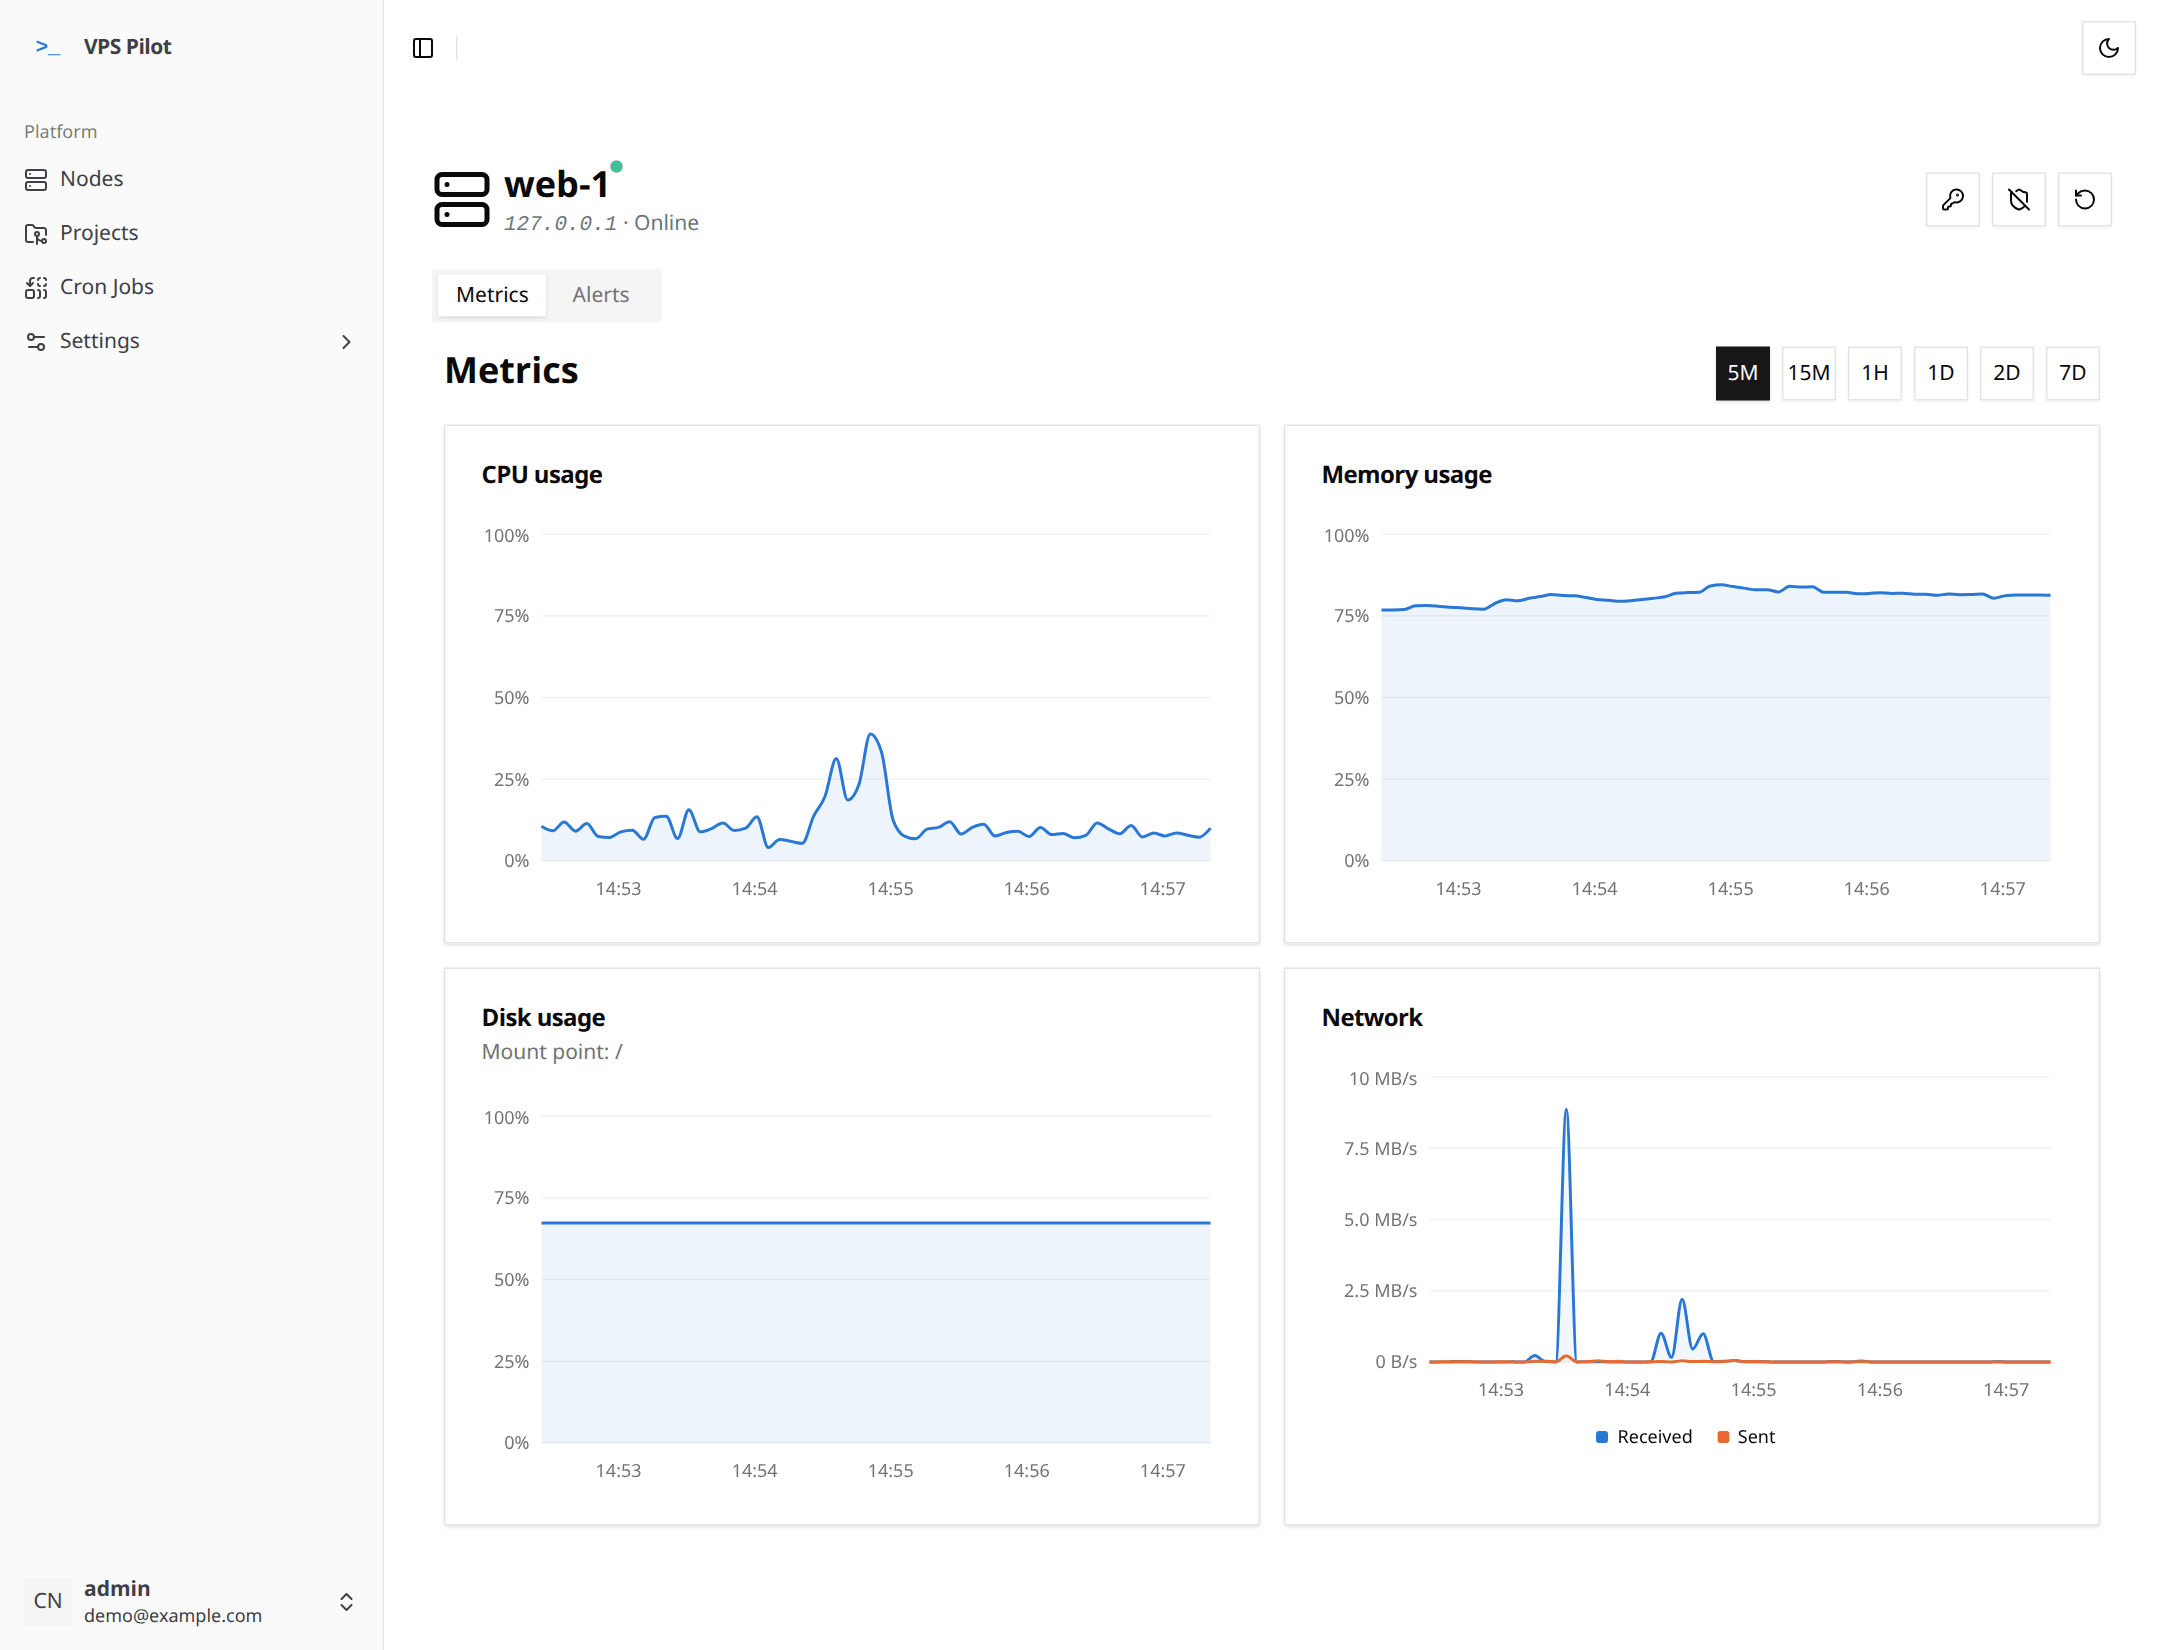
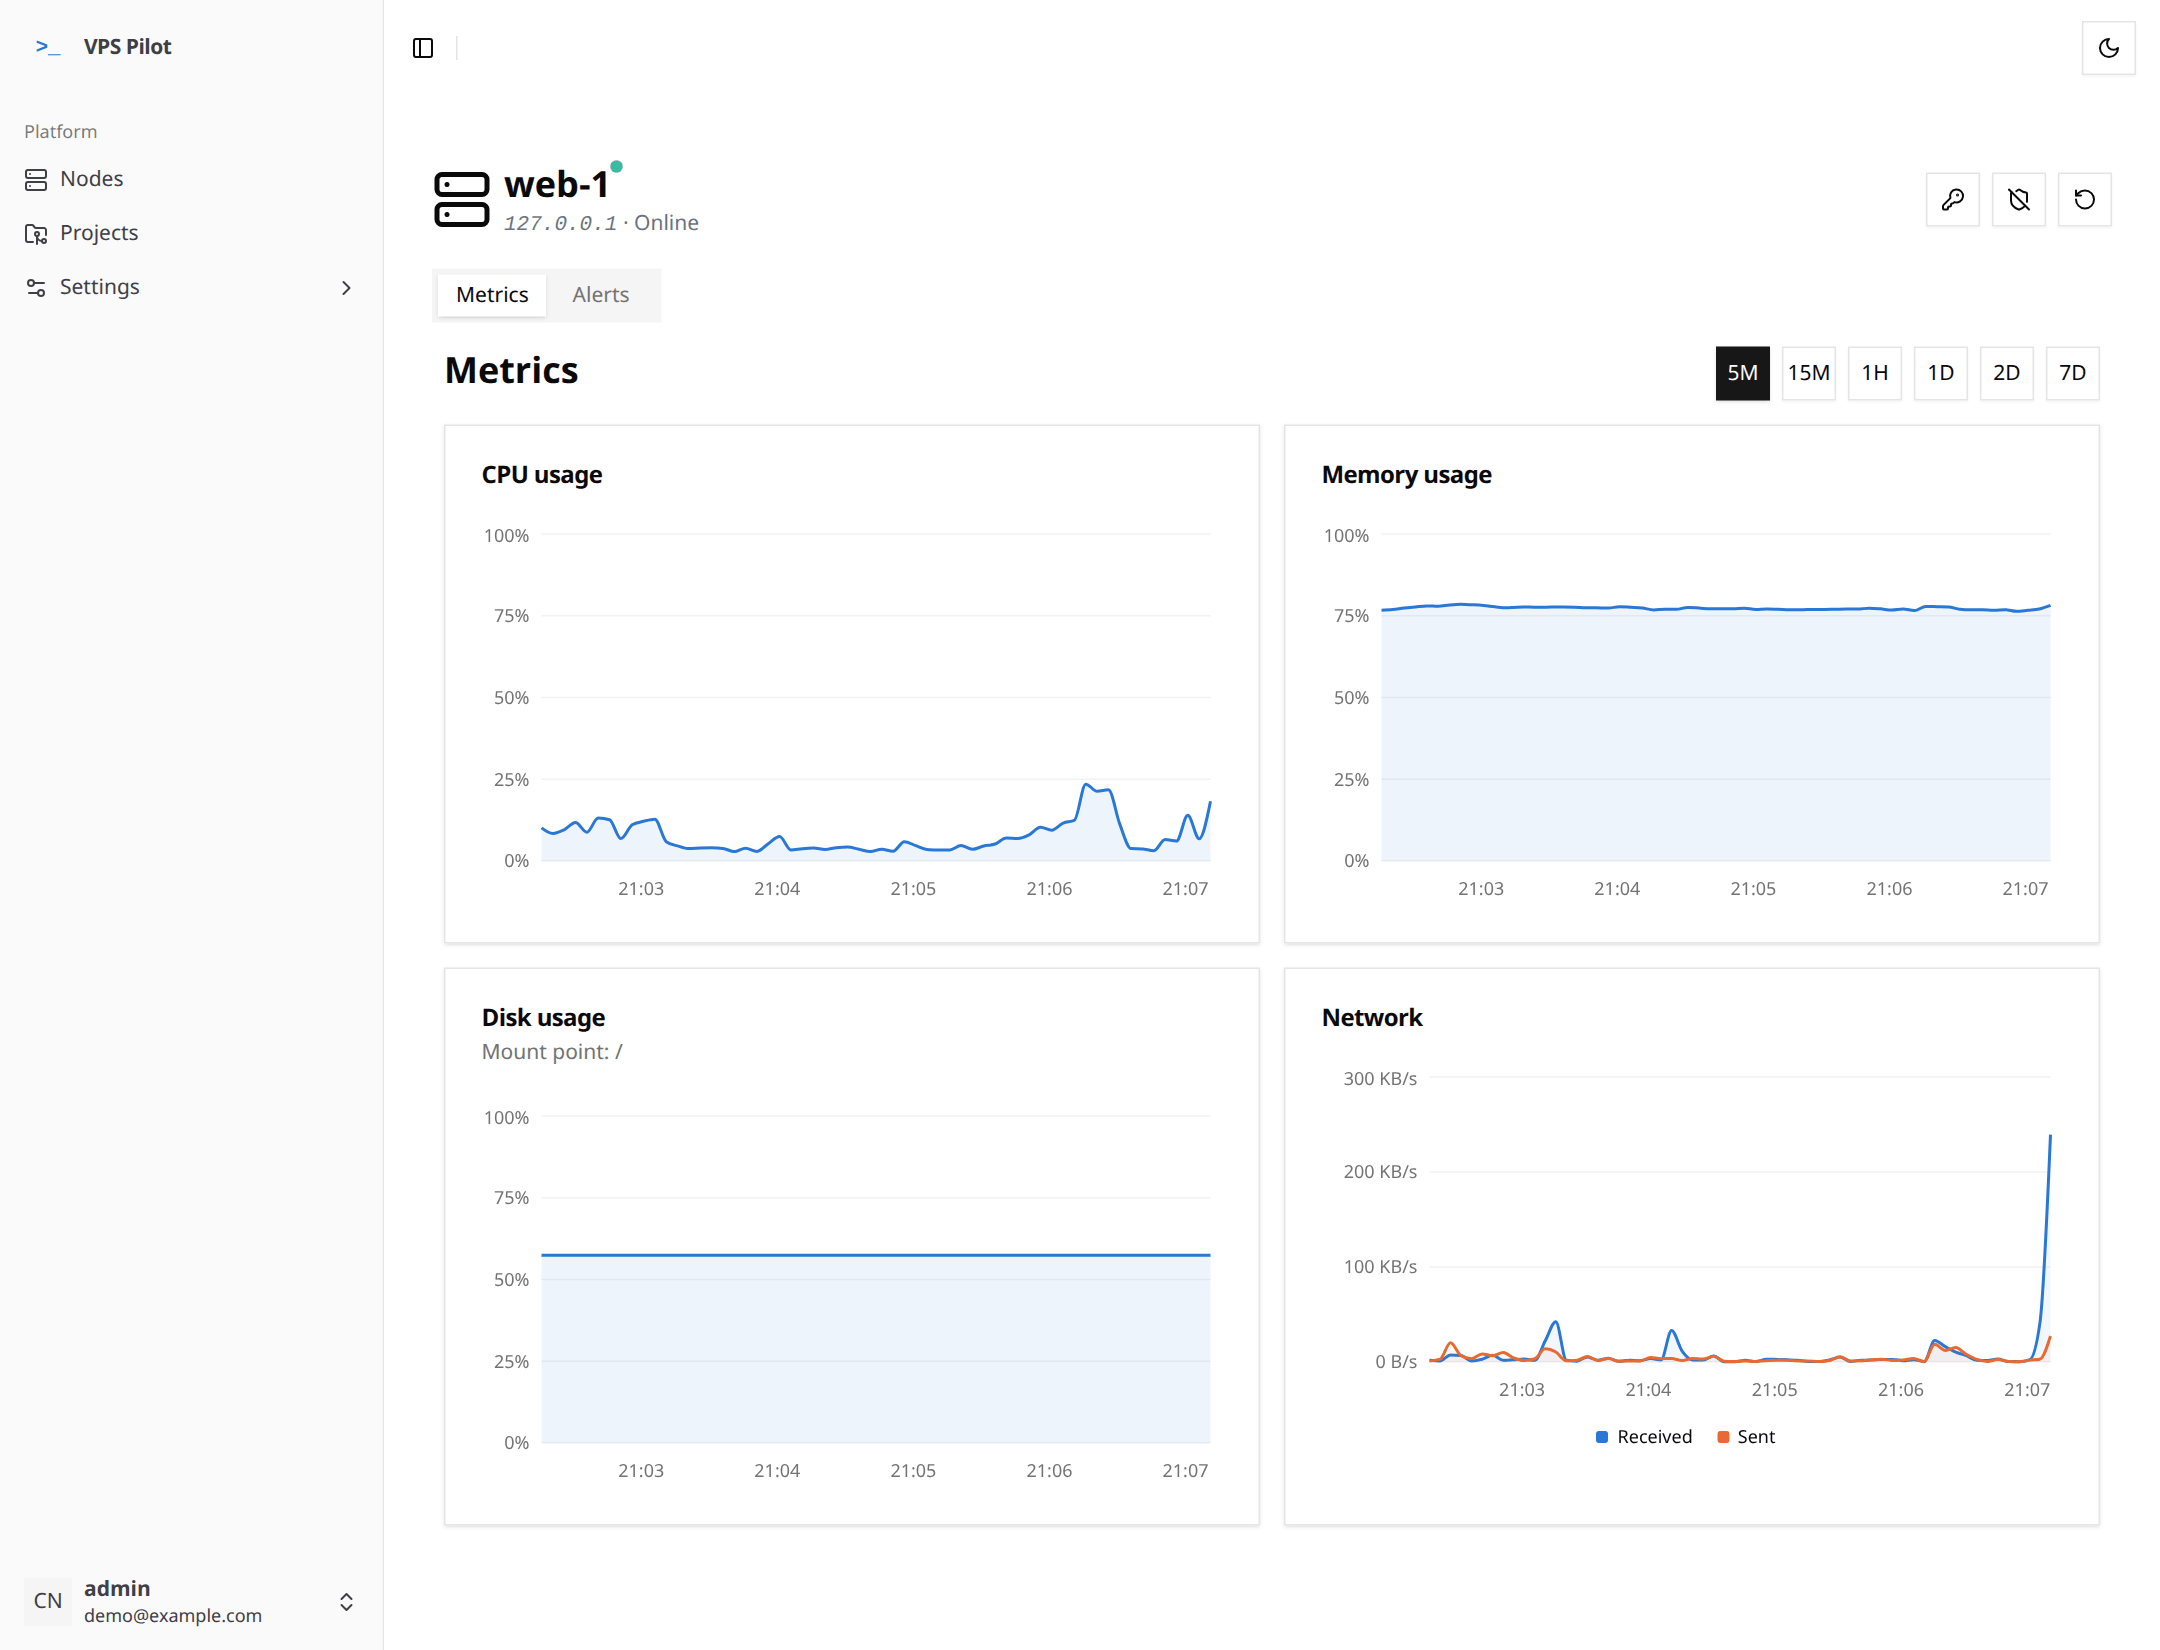
Release v0.6.0
Move the Unreleased changelog section to v0.6.0 and bring the website
and README up to date: cron jobs are available (scope page, docs index,
landing page, README), the version shown on the site is v0.6.0, and the
landing screenshots are retaken without the removed Cron Jobs sidebar
item.

diff --git a/site/layouts/index.html b/site/layouts/index.html
@@ -96,7 +96,7 @@
       <h2 class="section-title">You stay in control</h2>
       <p>Each project on a server carries a <code>config.vpspilot.json</code>, written by whoever owns the server. It's the complete list of what the dashboard may ever do with that project.</p>
       <p>The hub sends names, never command strings. To run <code>build</code>, it sends the agent the word <code>"build"</code>. The agent looks that name up in the file on the server and runs the command written there. Even someone who took over your hub couldn't run anything that isn't already in a file you wrote.</p>
-      <p class="note">The command runs as the owner of <code>config.vpspilot.json</code>, and every run is recorded with who started it. Logs are read and backups made the same way, and only from what the file lists.</p>
+      <p class="note">The command runs as the owner of <code>config.vpspilot.json</code>, and every run is recorded with who started it. Logs are read, backups made and cron jobs run the same way, and only from what the file lists.</p>
       <p><a href="{{ "/docs/projects/" | relURL }}">How projects work</a></p>
     </div>
     <div class="split-code">

diff --git a/README.md b/README.md
@@ -1,7 +1,7 @@
 # VPS Pilot
 
 VPS Pilot is a **server monitoring and management platform** designed for private VPS servers.  
-It provides real-time monitoring, alerting, and project management (run declared commands, read logs, back up) — all from a single dashboard. Agents dial out to the hub, so your servers need no open ports.
+It provides real-time monitoring, alerting, and project management (run declared commands, read logs, back up, cron jobs) — all from a single dashboard. Agents dial out to the hub, so your servers need no open ports.
 
 ---
 
@@ -40,6 +40,7 @@ It provides real-time monitoring, alerting, and project management (run declared
 - **Run** a command declared in the file from the project page, with live output and a history of every run. The agent runs it as the owner of `config.vpspilot.json`
 - **Read** the files in the log folders the file declares from the project page, and follow one live. The agent reads them as the owner of `config.vpspilot.json`
 - **Back up** the folders, env file and database dump the file declares into a zip on the server, on a schedule set in the file or with **Back up now**, and optionally upload it to S3-compatible storage. The agent backs up as the owner of `config.vpspilot.json`
+- **Cron jobs**: the agent runs the commands the file lists under `cron` on their schedules, as the owner of `config.vpspilot.json`, even while the hub is down. The project page shows each job's last run, status and output
 
 **Sample `config.vpspilot.json`:**
 ```json
@@ -49,7 +50,11 @@ It provides real-time monitoring, alerting, and project management (run declared
   "logs": ["storage/logs"],
   "commands": [
     { "name": "node build", "command": "npm run build" },
-    { "name": "php build", "command": "composer install" }
+    { "name": "php build", "command": "composer install" },
+    { "name": "scheduler", "command": "php artisan schedule:run" }
+  ],
+  "cron": [
+    { "command": "scheduler", "schedule": "* * * * *" }
   ],
   "backups": {
     "env_file": ".env",
@@ -86,10 +91,10 @@ The `database` and `s3` keys are the *names* of variables in `env_file`, so pass
 
 ---
 
-### ⏲ Cron Jobs Management (Planned)
-- Cron jobs declared per project in `config.vpspilot.json`, run by the agent
-- The last run of each job and its output in the dashboard
-- **Status:** planned for v0.6.0
+### ⏲ Cron Jobs
+- Each `cron` entry names one of the project's `commands` and a five-field schedule (or `@hourly`, `@daily`, `@weekly`, `@monthly`) in the server's time zone
+- The agent runs the jobs itself, with the same checks as **Run**, and skips a run that would overlap the same command
+- The project's **Cron jobs** card shows each job's schedule, last run, status and output, and its recent runs. The dashboard can't add, change or start a job
 
 ---
 
@@ -410,7 +415,7 @@ ls server/cmd/app/dist/
 - [x] Run named project commands (declared in the config file only) with audit log
 - [x] Log tailing for declared log folders
 - [x] Project backups (database + directories)
-- [ ] Cron jobs declared per project
+- [x] Cron jobs declared per project
 - [x] Install script + systemd unit for the agent
 - [ ] Docker Compose deployment
 - [ ] Multi-user support with roles

diff --git a/site/content/_index.md b/site/content/_index.md
@@ -25,6 +25,8 @@ available:
     text: Pick a file in the log folders a project declares and follow it live, or load earlier lines. The agent reads it as the owner of the config file, and the hub stores nothing.
   - title: Backups
     text: Zip the folders, env file and database a project declares on a schedule or with one click, keep them on the server and upload them to S3-compatible storage. Keys stay in the env file on the server.
+  - title: Cron jobs
+    text: Run a project's commands on the schedules its config declares, as the owner of the config file, even while the hub is down. See each job's last run, status and output.
   - title: Safe enrollment
     text: One-time join tokens, TLS 1.3 with a pinned certificate, and a key per server that you can revoke. Re-enroll a server without losing its history.
   - title: One binary hub
@@ -33,7 +35,6 @@ available:
     text: One Rust binary per server, installed as a systemd service with one command or a .deb. It dials out to the hub, so the server needs no open ports.
 
 soon:
-  - Cron jobs declared per project
   - Docker Compose setup
   - Multiple users with roles
 

diff --git a/CHANGELOG.md b/CHANGELOG.md
@@ -6,6 +6,8 @@ User-facing changes to VPS Pilot. The format follows
 
 ## Unreleased
 
+## v0.6.0 - 2026-11-07
+
 ### Upgrade notes
 - Upgrading the hub adds a `cron` column to `projects` and the `cron_runs`
   table to the operational database on start.
@@ -25,6 +27,10 @@ User-facing changes to VPS Pilot. The format follows
   catch up. The **Cron jobs** card on the project page shows each job's
   schedule, last run, status and output, and its recent runs. The hub keeps
   the last 50 runs of each job and can't add, change or start a job.
+
+### Removed
+- The sidebar's **Cron Jobs** item, a placeholder that linked nowhere. Cron
+  jobs are on each project's page.
 
 ### Fixed
 - The hub no longer logs a second, misleading error after it fails to store

diff --git a/site/content/docs/_index.md b/site/content/docs/_index.md
@@ -40,11 +40,13 @@ cloud account.
   a project declares, live, and load earlier lines.
 - **[Backups](/docs/projects/#back-up).** Zip what a project declares, on a
   schedule or with Back up now, and upload it to S3-compatible storage.
+- **[Cron jobs](/docs/projects/#cron-jobs).** Run a project's commands on the
+  schedules its config declares, and see each job's last run and output.
 - **Nodes.** Add a server with a join token, re-enroll it on a new machine
   without losing its history, or revoke its key.
 
 {{< callout soon >}}
-Cron jobs are planned.
+A Docker Compose setup and multiple users with roles are planned.
 {{< /callout >}}
 
 ## The rule that shapes everything

diff --git a/site/content/docs/scope.md b/site/content/docs/scope.md
@@ -17,7 +17,7 @@ lets you do the few things each project allows, and nothing more.
 | Run commands | Run a command *named* in `config.vpspilot.json` and stream its output | Available |
 | Read logs | Tail the log folders a project declares | Available |
 | Back up | Zip the declared folders, the env file and a database dump | Available |
-| Schedule | Cron jobs declared per project, with the last run and its output | Coming soon |
+| Schedule | Cron jobs declared per project, with the last run and its output | Available |
 
 ## What it doesn't do
 

diff --git a/docs/PROTOCOL.md b/docs/PROTOCOL.md
@@ -399,7 +399,7 @@ Each field is `*`, a value, a range `a-b`, a step `*/n` or `a-b/n`, or a comma-s
   "kernel_version": "6.8.0-45-generic",
   "cpus": 4,
   "total_memory": 8221474816,
-  "agent_version": "v0.4.0",
+  "agent_version": "v0.6.0",
   "features": ["commands", "logs", "backups", "cron"]
 }
 ```

diff --git a/site/content/docs/protocol.md b/site/content/docs/protocol.md
@@ -350,7 +350,7 @@ missing, the hub treats the agent as having no features. The features are
   "kernel_version": "6.8.0-45-generic",
   "cpus": 4,
   "total_memory": 8221474816,
-  "agent_version": "v0.5.0",
+  "agent_version": "v0.6.0",
   "features": ["commands", "logs", "backups", "cron"]
 }
 ```
